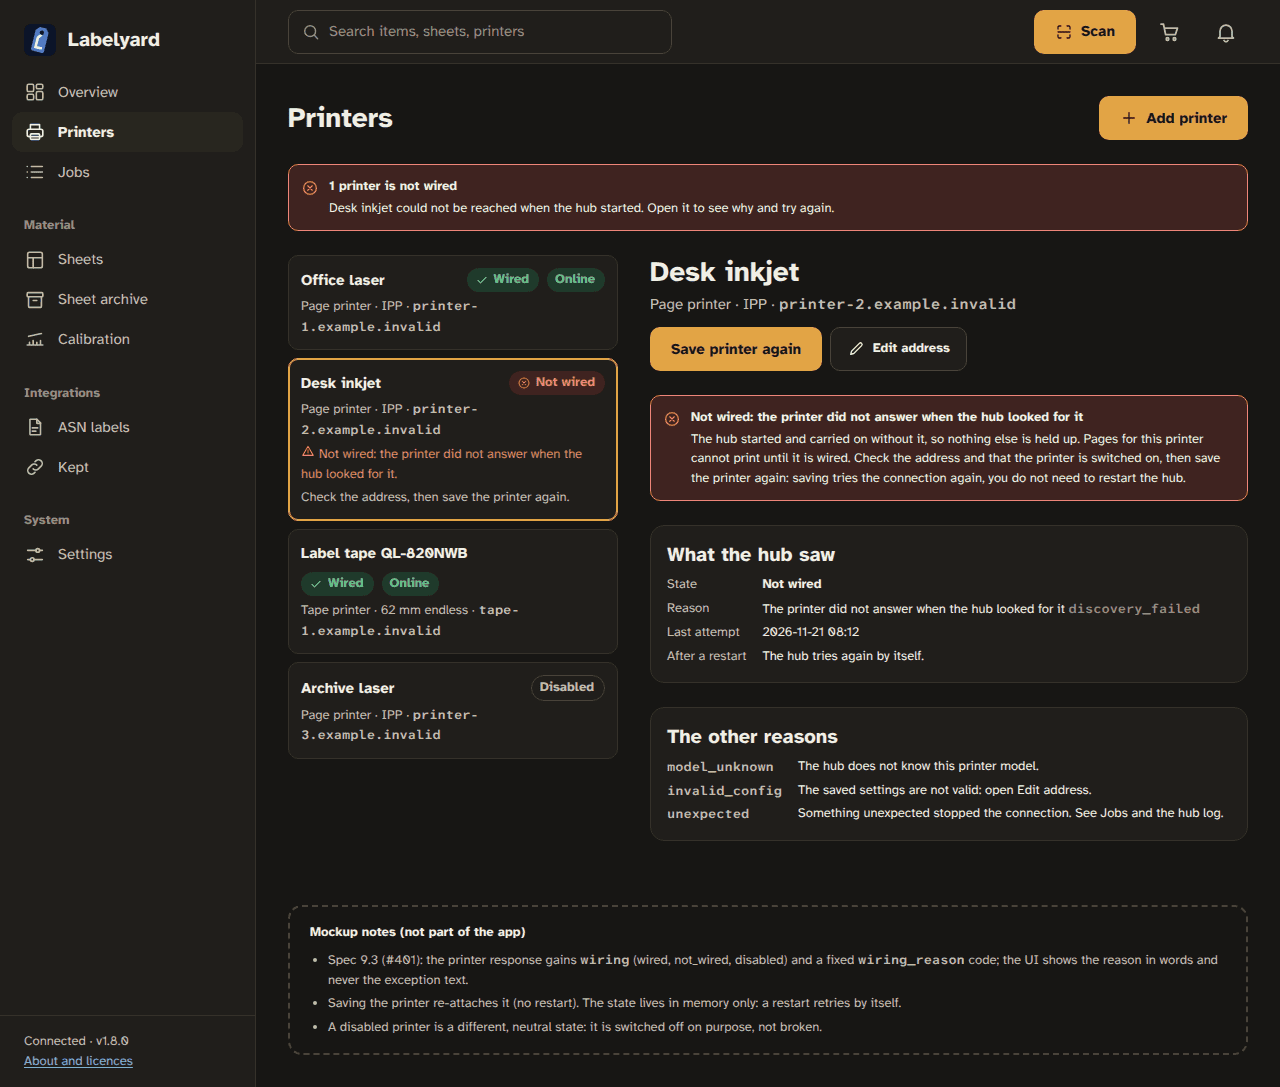
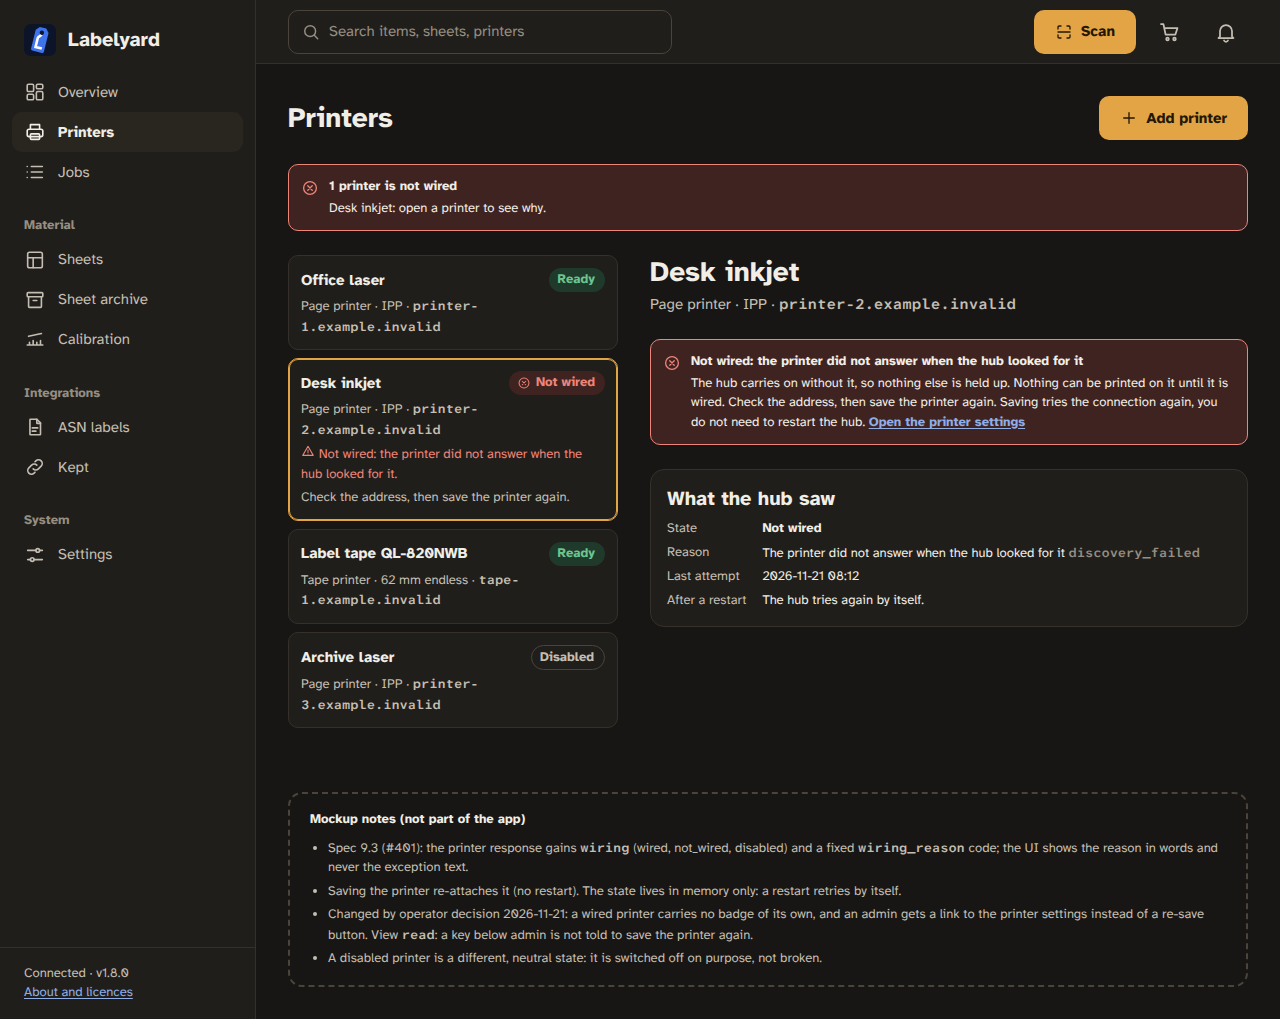
docs(printers): upgrade notes, troubleshooting and mockup M10 for the wiring state
Both languages. M10 follows the two operator decisions of 2026-11-21: no badge
for a wired printer, a link to the printer settings instead of a re-save button.

Refs #401

diff --git a/docs/designs/1.8.0/m10-printer-not-wired.html b/docs/designs/1.8.0/m10-printer-not-wired.html
@@ -304,7 +304,7 @@ html.shot[data-modal] body { height: auto; overflow: visible; min-height: 100vh;
 @media (min-height: 641px) { html.shot .scrim:not(.inline) { position: absolute; inset: 0; align-items: flex-start; padding-top: 72px; } }
 </style>
 <style></style>
-<script>window.__views=["default"];window.__modal=[];(function(){var q=new URLSearchParams(location.search),r=document.documentElement;var t=q.get("theme");if(t)r.setAttribute("data-theme",t);
+<script>window.__views=["default","read"];window.__modal=[];(function(){var q=new URLSearchParams(location.search),r=document.documentElement;var t=q.get("theme");if(t)r.setAttribute("data-theme",t);
 var v=q.get("view")||"default";r.setAttribute("data-view",v);if((window.__modal||[]).indexOf(v)>=0)r.setAttribute("data-modal","");if(q.has("shot"))r.classList.add("shot");
 document.addEventListener("DOMContentLoaded",function(){document.querySelectorAll("[data-only]").forEach(function(e){if(e.getAttribute("data-only").split(" ").indexOf(v)<0)e.hidden=true});
 document.querySelectorAll("[data-not]").forEach(function(e){if(e.getAttribute("data-not").split(" ").indexOf(v)>=0)e.hidden=true});
@@ -329,20 +329,19 @@ var b=document.querySelector(".mock-bar");if(b){var s=location.pathname;b.innerH
       <button class="icon-btn" aria-label="Notifications"><svg viewBox="0 0 24 24" width="24" height="24" fill="none" stroke="currentColor" stroke-width="1.75" stroke-linecap="round" stroke-linejoin="round" aria-hidden="true" focusable="false" class=""><path d="M6 16.5V11a6 6 0 0 1 12 0v5.5l1.5 1.5h-15L6 16.5Z"/><path d="M10 20.5a2.2 2.2 0 0 0 4 0"/></svg></button>
     </header>
     <main id="content"><div class="col g24"><div class="row between wrap-row"><h1 class="title">Printers</h1><a class="btn primary" href="#"><svg viewBox="0 0 24 24" width="18" height="18" fill="none" stroke="currentColor" stroke-width="1.75" stroke-linecap="round" stroke-linejoin="round" aria-hidden="true" focusable="false" class=""><path d="M12 5v14M5 12h14"/></svg>Add printer</a></div>
-      <div class="note bad" role="note"><svg viewBox="0 0 24 24" width="18" height="18" fill="none" stroke="currentColor" stroke-width="1.75" stroke-linecap="round" stroke-linejoin="round" aria-hidden="true" focusable="false" class=""><circle cx="12" cy="12" r="8.5"/><path d="m9 9 6 6M15 9l-6 6"/></svg><div class="body"><strong>1 printer is not wired</strong><span>Desk inkjet could not be reached when the hub started. Open it to see why and try again.</span></div></div>
-      <div class="split"><ul class="col g8" aria-label="Printers"><li class="item-card"><div class="row between wrap-row g8"><span class="bold">Office laser</span><span class="row g8 wrap-row"><span class="badge ok"><svg viewBox="0 0 24 24" width="14" height="14" fill="none" stroke="currentColor" stroke-width="1.75" stroke-linecap="round" stroke-linejoin="round" aria-hidden="true" focusable="false" class=""><path d="m5 12.5 4.5 4.5L19 7.5"/></svg>Wired</span><span class="badge ok">Online</span></span></div>
+      <div class="note bad" role="note"><svg viewBox="0 0 24 24" width="18" height="18" fill="none" stroke="currentColor" stroke-width="1.75" stroke-linecap="round" stroke-linejoin="round" aria-hidden="true" focusable="false" class=""><circle cx="12" cy="12" r="8.5"/><path d="m9 9 6 6M15 9l-6 6"/></svg><div class="body"><strong>1 printer is not wired</strong><span>Desk inkjet: open a printer to see why.</span></div></div>
+      <div class="split"><ul class="col g8" aria-label="Printers"><li class="item-card"><div class="row between wrap-row g8"><span class="bold">Office laser</span><span class="row g8 wrap-row"><span class="badge ok">Ready</span></span></div>
   <span class="small muted">Page printer · IPP · <span class="mono">printer-1.example.invalid</span></span>
   </li><li class="item-card on"><div class="row between wrap-row g8"><span class="bold">Desk inkjet</span><span class="row g8 wrap-row"><span class="badge bad"><svg viewBox="0 0 24 24" width="14" height="14" fill="none" stroke="currentColor" stroke-width="1.75" stroke-linecap="round" stroke-linejoin="round" aria-hidden="true" focusable="false" class=""><circle cx="12" cy="12" r="8.5"/><path d="m9 9 6 6M15 9l-6 6"/></svg>Not wired</span></span></div>
   <span class="small muted">Page printer · IPP · <span class="mono">printer-2.example.invalid</span></span>
-  <p class="small" style="color:var(--bad)"><svg viewBox="0 0 24 24" width="14" height="14" fill="none" stroke="currentColor" stroke-width="1.75" stroke-linecap="round" stroke-linejoin="round" aria-hidden="true" focusable="false" class=""><path d="M12 4 21 19.5H3L12 4Z"/><path d="M12 10v4.5M12 17h.01"/></svg> Not wired: the printer did not answer when the hub looked for it.</p><p class="small muted">Check the address, then save the printer again.</p></li><li class="item-card"><div class="row between wrap-row g8"><span class="bold">Label tape QL-820NWB</span><span class="row g8 wrap-row"><span class="badge ok"><svg viewBox="0 0 24 24" width="14" height="14" fill="none" stroke="currentColor" stroke-width="1.75" stroke-linecap="round" stroke-linejoin="round" aria-hidden="true" focusable="false" class=""><path d="m5 12.5 4.5 4.5L19 7.5"/></svg>Wired</span><span class="badge ok">Online</span></span></div>
+  <p class="small" style="color:var(--bad)"><svg viewBox="0 0 24 24" width="14" height="14" fill="none" stroke="currentColor" stroke-width="1.75" stroke-linecap="round" stroke-linejoin="round" aria-hidden="true" focusable="false" class=""><path d="M12 4 21 19.5H3L12 4Z"/><path d="M12 10v4.5M12 17h.01"/></svg> Not wired: the printer did not answer when the hub looked for it.</p><p class="small muted" data-not="read">Check the address, then save the printer again.</p><p class="small muted" data-only="read">Ask an administrator to check the printer.</p></li><li class="item-card"><div class="row between wrap-row g8"><span class="bold">Label tape QL-820NWB</span><span class="row g8 wrap-row"><span class="badge ok">Ready</span></span></div>
   <span class="small muted">Tape printer · 62 mm endless · <span class="mono">tape-1.example.invalid</span></span>
   </li><li class="item-card"><div class="row between wrap-row g8"><span class="bold">Archive laser</span><span class="row g8 wrap-row"><span class="badge plain">Disabled</span></span></div>
   <span class="small muted">Page printer · IPP · <span class="mono">printer-3.example.invalid</span></span>
-  </li></ul><div class="col g24"><div class="row between wrap-row"><div class="col g4"><h2 class="title">Desk inkjet</h2><span class="muted">Page printer · IPP · <span class="mono">printer-2.example.invalid</span></span></div><span class="row g8 wrap-row"><a class="btn primary" href="#">Save printer again</a><a class="btn " href="#"><svg viewBox="0 0 24 24" width="18" height="18" fill="none" stroke="currentColor" stroke-width="1.75" stroke-linecap="round" stroke-linejoin="round" aria-hidden="true" focusable="false" class=""><path d="m5 19 1-4L16.5 4.5a2 2 0 0 1 3 3L9 18l-4 1Z"/></svg>Edit address</a></span></div>
-  <div class="note bad" role="note"><svg viewBox="0 0 24 24" width="18" height="18" fill="none" stroke="currentColor" stroke-width="1.75" stroke-linecap="round" stroke-linejoin="round" aria-hidden="true" focusable="false" class=""><circle cx="12" cy="12" r="8.5"/><path d="m9 9 6 6M15 9l-6 6"/></svg><div class="body"><strong>Not wired: the printer did not answer when the hub looked for it</strong><span>The hub started and carried on without it, so nothing else is held up. Pages for this printer cannot print until it is wired. Check the address and that the printer is switched on, then save the printer again: saving tries the connection again, you do not need to restart the hub.</span></div></div>
-  <div class="panel col g8"><h3 class="section">What the hub saw</h3><dl class="small" style="display:grid;grid-template-columns:auto 1fr;gap:4px 16px"><dt class="muted">State</dt><dd class="bold">Not wired</dd><dt class="muted">Reason</dt><dd>The printer did not answer when the hub looked for it <span class="mono small faint">discovery_failed</span></dd><dt class="muted">Last attempt</dt><dd>2026-11-21 08:12</dd><dt class="muted">After a restart</dt><dd>The hub tries again by itself.</dd></dl></div>
-  <div class="panel col g8"><h3 class="section">The other reasons</h3><dl class="small" style="display:grid;grid-template-columns:auto 1fr;gap:4px 16px"><dt class="mono muted">model_unknown</dt><dd>The hub does not know this printer model.</dd><dt class="mono muted">invalid_config</dt><dd>The saved settings are not valid: open Edit address.</dd><dt class="mono muted">unexpected</dt><dd>Something unexpected stopped the connection. See Jobs and the hub log.</dd></dl></div></div></div></div></main>
-    <aside class="mock-notes"><h2>Mockup notes (not part of the app)</h2><ul><li>Spec 9.3 (#401): the printer response gains <code>wiring</code> (wired, not_wired, disabled) and a fixed <code>wiring_reason</code> code; the UI shows the reason in words and never the exception text.</li><li>Saving the printer re-attaches it (no restart). The state lives in memory only: a restart retries by itself.</li><li>A disabled printer is a different, neutral state: it is switched off on purpose, not broken.</li></ul></aside>
+  </li></ul><div class="col g24"><div class="row between wrap-row"><div class="col g4"><h2 class="title">Desk inkjet</h2><span class="muted">Page printer · IPP · <span class="mono">printer-2.example.invalid</span></span></div></div>
+  <div class="note bad" role="note"><svg viewBox="0 0 24 24" width="18" height="18" fill="none" stroke="currentColor" stroke-width="1.75" stroke-linecap="round" stroke-linejoin="round" aria-hidden="true" focusable="false" class=""><circle cx="12" cy="12" r="8.5"/><path d="m9 9 6 6M15 9l-6 6"/></svg><div class="body"><strong>Not wired: the printer did not answer when the hub looked for it</strong><span>The hub carries on without it, so nothing else is held up. Nothing can be printed on it until it is wired. <span data-not="read">Check the address, then save the printer again. Saving tries the connection again, you do not need to restart the hub.</span><span data-only="read">Ask an administrator to check the printer.</span> <a data-not="read" href="#" class="bold">Open the printer settings</a></span></div></div>
+  <div class="panel col g8"><h3 class="section">What the hub saw</h3><dl class="small" style="display:grid;grid-template-columns:auto 1fr;gap:4px 16px"><dt class="muted">State</dt><dd class="bold">Not wired</dd><dt class="muted">Reason</dt><dd>The printer did not answer when the hub looked for it <span class="mono small faint">discovery_failed</span></dd><dt class="muted">Last attempt</dt><dd>2026-11-21 08:12</dd><dt class="muted">After a restart</dt><dd>The hub tries again by itself.</dd></dl></div></div></div></div></main>
+    <aside class="mock-notes"><h2>Mockup notes (not part of the app)</h2><ul><li>Spec 9.3 (#401): the printer response gains <code>wiring</code> (wired, not_wired, disabled) and a fixed <code>wiring_reason</code> code; the UI shows the reason in words and never the exception text.</li><li>Saving the printer re-attaches it (no restart). The state lives in memory only: a restart retries by itself.</li><li>Changed by operator decision 2026-11-21: a wired printer carries no badge of its own, and an admin gets a link to the printer settings instead of a re-save button. View <code>read</code>: a key below admin is not told to save the printer again.</li><li>A disabled printer is a different, neutral state: it is switched off on purpose, not broken.</li></ul></aside>
     <nav class="tabbar" aria-label="Tabs"><a class="tab" href="#"><svg viewBox="0 0 24 24" width="24" height="24" fill="none" stroke="currentColor" stroke-width="1.75" stroke-linecap="round" stroke-linejoin="round" aria-hidden="true" focusable="false" class=""><rect x="3.5" y="3.5" width="7" height="8" rx="1.5"/><rect x="13.5" y="3.5" width="7" height="5" rx="1.5"/><rect x="13.5" y="11.5" width="7" height="9" rx="1.5"/><rect x="3.5" y="14.5" width="7" height="6" rx="1.5"/></svg><span>Overview</span></a><a class="tab active" href="#"><svg viewBox="0 0 24 24" width="24" height="24" fill="none" stroke="currentColor" stroke-width="1.75" stroke-linecap="round" stroke-linejoin="round" aria-hidden="true" focusable="false" class=""><path d="M7 9V4h10v5"/><rect x="3.5" y="9" width="17" height="8" rx="2"/><rect x="7" y="14" width="10" height="6" rx="1"/></svg><span>Printers</span></a><a class="tab scan" href="#"><span class="disc"><svg viewBox="0 0 24 24" width="28" height="28" fill="none" stroke="currentColor" stroke-width="1.75" stroke-linecap="round" stroke-linejoin="round" aria-hidden="true" focusable="false" class=""><path d="M4 8V5.5A1.5 1.5 0 0 1 5.5 4H8M16 4h2.5A1.5 1.5 0 0 1 20 5.5V8M20 16v2.5a1.5 1.5 0 0 1-1.5 1.5H16M8 20H5.5A1.5 1.5 0 0 1 4 18.5V16"/><path d="M4 12h16"/></svg></span><span>Scan</span></a><a class="tab" href="#"><svg viewBox="0 0 24 24" width="24" height="24" fill="none" stroke="currentColor" stroke-width="1.75" stroke-linecap="round" stroke-linejoin="round" aria-hidden="true" focusable="false" class=""><path d="M8 6h12M8 12h12M8 18h12"/><path d="M3.5 6h.01M3.5 12h.01M3.5 18h.01"/></svg><span>Jobs</span></a><a class="tab" href="#"><svg viewBox="0 0 24 24" width="24" height="24" fill="none" stroke="currentColor" stroke-width="1.75" stroke-linecap="round" stroke-linejoin="round" aria-hidden="true" focusable="false" class=""><rect x="4" y="3.5" width="16" height="17" rx="2"/><path d="M4 9.5h16M10 9.5v11"/></svg><span>Sheets</span></a></nav>
   </div>
 </div>

diff --git a/website/src/content/docs/de/admin/troubleshooting.md b/website/src/content/docs/de/admin/troubleshooting.md
@@ -19,7 +19,7 @@ description: Die häufigen Probleme nach der Installation, mit Ursache und Lösu
 
 - **Keine Drucker in der Übersicht.** Füg sie unter Einstellungen > Drucker hinzu; Drucker werden nicht über Variablen eingerichtet.
 - **Der Drucker steht auf offline.** Prüf vom Docker-Host aus: `nc -zv <druckeradresse> 9100` und SNMP wie unter [Drucker anschließen](/de/install/printers/) beschrieben.
-- **Ein Drucker zeigt nach einem Neustart keinen Zustand, und die Karte sagt, er werde nicht überwacht.** Der Hub konnte ihn beim Start nicht einbinden, zum Beispiel weil der Drucker ausgeschaltet war und der Hub sein Modell nachschlagen musste. Das Protokoll nennt ihn (`Printer slug=… not wired`). Der Hub versucht es nicht von selbst erneut: Schalt den Drucker ein und speichere ihn einmal unter Einstellungen > Drucker (oder starte den Hub neu), damit er wieder eingebunden wird.
+- **Eine Druckerkarte sagt „Nicht angebunden“.** Der Hub konnte den Drucker beim Start oder beim Speichern nicht anbinden, und die Karte und die Druckerseite sagen, warum: Der Drucker hat nicht geantwortet, als der Hub ihn gesucht hat, der Hub kennt sein Modell nicht, die gespeicherten Einstellungen sind nicht gültig, oder etwas Unerwartetes hat die Verbindung gestoppt. Das Protokoll nennt ihn (`Printer slug=… not wired`). Beseitige die Ursache (schalte den Drucker ein, korrigiere die Adresse unter Einstellungen > Drucker) und speichere den Drucker dann einmal: Beim Speichern versucht der Hub die Verbindung erneut, du musst ihn nicht neu starten. Nach einem Neustart versucht der Hub es von selbst erneut.
 - **Ein Auftrag bleibt auf „druckt“ stehen.** Der Drucker hat das Ende des Auftrags nie gemeldet. Schau am Drucker nach: Vielleicht ist ein Deckel offen oder das Band leer.
 - **Drucke auf einem Seitendrucker liegen ein paar Millimeter daneben.** Kalibrier das Fach (siehe [Drucker anschließen](/de/install/printers/)).
 

diff --git a/website/src/content/docs/de/admin/upgrades/to-1-8-0.md b/website/src/content/docs/de/admin/upgrades/to-1-8-0.md
@@ -43,3 +43,10 @@ Aufrufer ohne Schlüssel und ohne Sitzung (Pangolin-SSO ohne Hub-Sitzung) gehör
 Das Image startet uvicorn jetzt mit dem h11-HTTP-Parser (`--http h11`) statt httptools und setzt `--h11-max-incomplete-event-size 16384`. Der h11-Parser ist die eigentliche Änderung. Die Grenze von 16 KiB gilt für Anfragedaten, die über mehrere Lesevorgänge hinweg unvollständig bleiben; ein vollständiger Header-Block, der in einem Lesevorgang ankommt, wird von diesem Schalter nicht begrenzt. Das gilt für jede Installation, mit oder ohne Proxy. Ein Reverse-Proxy davor bleibt empfohlen: Er beendet TLS, setzt eigene Grenzen und hält langsame Clients vom Hub fern.
 
 Wenn du den Hub mit einem eigenen `command:` oder `uvicorn`-Aufruf startest, füge `--http h11 --h11-max-incomplete-event-size 16384` hinzu, damit dieselbe Grenze gilt.
+
+## Ein Drucker, der nicht angebunden werden konnte, wird angezeigt
+
+Wenn der Hub einen Drucker nicht anbinden kann (ein unbekanntes Modell, ein Drucker, der nicht antwortet, gespeicherte Einstellungen, die nicht gültig sind), sagt das jetzt die Druckeranzeige. `GET /api/v1/printers`, `GET /api/v1/printers/{id}` und die Admin-Druckerrouten bekommen drei Felder: `wiring` (`wired`, `not_wired` oder `disabled`), `wiring_reason` (`model_unknown`, `discovery_failed`, `invalid_config` oder `unexpected`, sonst `null`) und `wiring_at` (wann der letzte Versuch scheiterte, sonst `null`). Sie kommen additiv dazu: nichts wird entfernt oder umbenannt. Der Grund ist ein fester Code, nie der Fehlertext des Druckers.
+
+Die Druckerliste und die Druckerseite zeigen einen nicht angebundenen Drucker als „Nicht angebunden“ mit dem Grund in Worten. Der Zustand liegt nur im Arbeitsspeicher: Ein Neustart versucht die Anbindung erneut, und das Speichern des Druckers unter Einstellungen > Drucker versucht sie sofort. An der Datenbank ändert sich nichts.
+

diff --git a/website/src/content/docs/admin/upgrades/to-1-8-0.md b/website/src/content/docs/admin/upgrades/to-1-8-0.md
@@ -43,3 +43,10 @@ Callers with neither a key nor a session (Pangolin SSO without a hub session) ar
 The image now starts uvicorn with the h11 HTTP parser (`--http h11`) instead of httptools, and sets `--h11-max-incomplete-event-size 16384`. The h11 parser is the main change. The 16 KiB bound applies to request data that stays incomplete across several reads; a complete header block that arrives in one read is not limited by this flag. This applies to every deployment, with or without a proxy. A reverse proxy in front stays recommended: it terminates TLS, sets its own limits and keeps slow clients away from the hub.
 
 If you run the hub with your own `command:` or `uvicorn` call, add `--http h11 --h11-max-incomplete-event-size 16384` to keep the same bound.
+
+## A printer that could not be wired is shown
+
+When the hub cannot wire a printer (an unknown model, a printer that does not answer, saved settings that are not valid), the printer read now says so. `GET /api/v1/printers`, `GET /api/v1/printers/{id}` and the admin printer routes gain three fields: `wiring` (`wired`, `not_wired` or `disabled`), `wiring_reason` (`model_unknown`, `discovery_failed`, `invalid_config` or `unexpected`, else `null`) and `wiring_at` (when the last attempt failed, else `null`). They are additive: nothing is removed or renamed. The reason is a fixed code, never the error text of the printer.
+
+The printer list and the printer page show a printer that is not wired as "Not wired" with the reason in words. The state is kept in memory only: a restart tries the wiring again, and saving the printer under Settings > Printers tries it at once. Nothing changes in the database.
+

diff --git a/website/src/content/docs/admin/troubleshooting.md b/website/src/content/docs/admin/troubleshooting.md
@@ -19,7 +19,7 @@ description: The common problems after installing, with their cause and the fix.
 
 - **No printers on the overview.** Add them under Settings > Printers; printers are not configured through variables.
 - **The printer shows offline.** Check from the Docker host: `nc -zv <printer-address> 9100`, and SNMP as described under [connecting printers](/install/printers/).
-- **A printer shows no status after a restart and the card says it is not monitored.** The hub could not wire it at startup, for example because the printer was switched off and the hub had to look up its model. The log names it (`Printer slug=… not wired`). The hub does not retry by itself: switch the printer on, then save it once under Settings > Printers (or restart the hub) to wire it again.
+- **A printer card says "Not wired".** The hub could not wire the printer, at startup or when it was saved, and the card and the printer page say why: the printer did not answer when the hub looked for it, the hub does not know its model, the saved settings are not valid, or something unexpected stopped the connection. The log names it (`Printer slug=… not wired`). Fix the cause (switch the printer on, correct the address under Settings > Printers), then save the printer once: saving tries the connection again, you do not need to restart the hub. After a restart the hub tries again by itself.
 - **A job stays in printing.** The printer never reported the end of the job. Look at the printer: a cover may be open, or the tape ran out.
 - **Prints on a page printer are off by a few millimetres.** Calibrate the tray (see [connecting printers](/install/printers/)).
 

diff --git a/docs/designs/1.8.0/README.md b/docs/designs/1.8.0/README.md
@@ -64,9 +64,9 @@ Links: [page](./m09-probe-print.html), [A4 at full size](png/m09-probe-print-a4-
 
 ## M10 Printer not wired
 
-Spec section 9.3, 11. Printers list and detail with the Not wired state, its reason in words and the other reason codes.
+Spec section 9.3, 11. Printers list and detail with the Not wired state and its reason in words; the view `read` is the same page for a key below admin. Changed by operator decision 2026-11-21: a wired printer carries no badge of its own, an admin gets a link to the printer settings instead of a re-save button, and the list of the other reason codes is no longer drawn (the code is shown beside the reason).
 [![M10 Printer not wired, 1280 px, light](png/m10-printer-not-wired-1280-light.png)](png/m10-printer-not-wired-1280-light.png)
-Links: [page](./m10-printer-not-wired.html), [1280 dark](png/m10-printer-not-wired-1280-dark.png), [390 light](png/m10-printer-not-wired-390-light.png), [390 dark](png/m10-printer-not-wired-390-dark.png)
+Links: [page](./m10-printer-not-wired.html), [read view](png/m10-printer-not-wired-read-1280-light.png), [1280 dark](png/m10-printer-not-wired-1280-dark.png), [390 light](png/m10-printer-not-wired-390-light.png), [390 dark](png/m10-printer-not-wired-390-dark.png)
 
 ## M11 Public web URL
 
